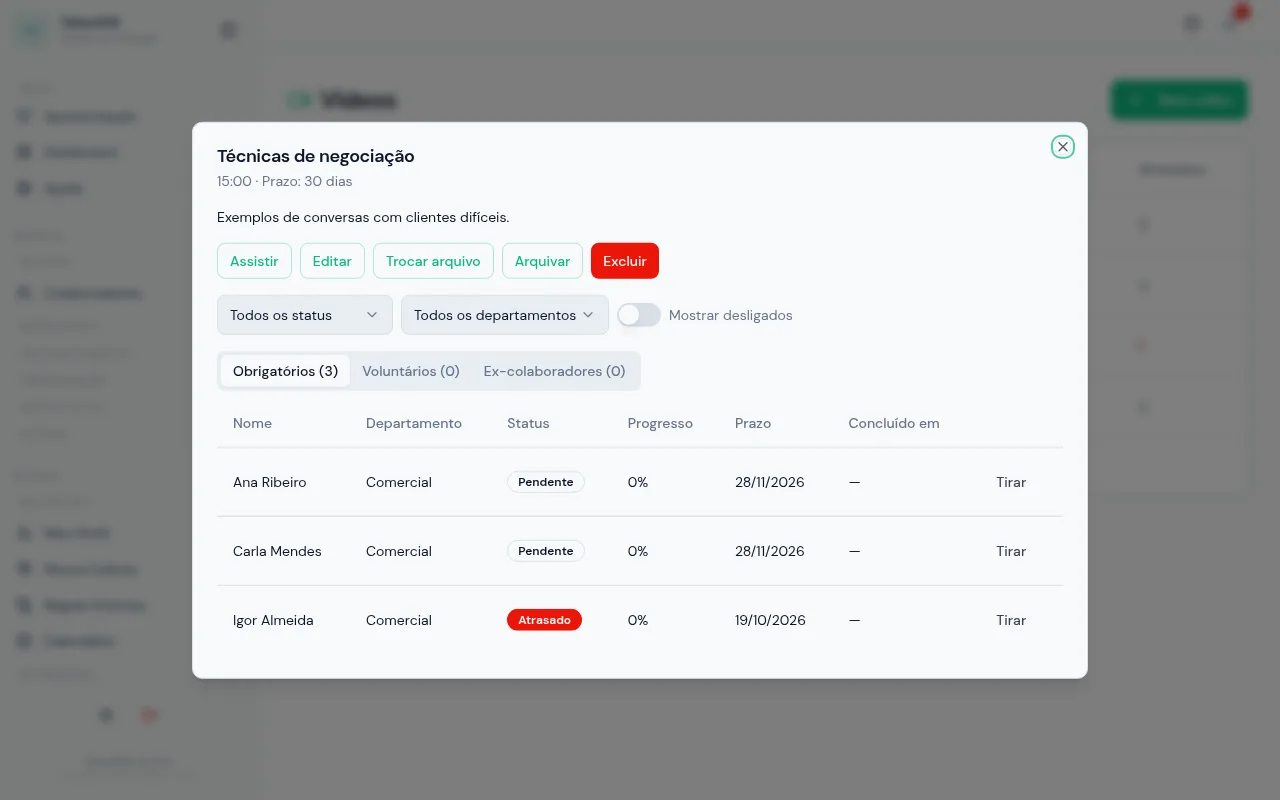
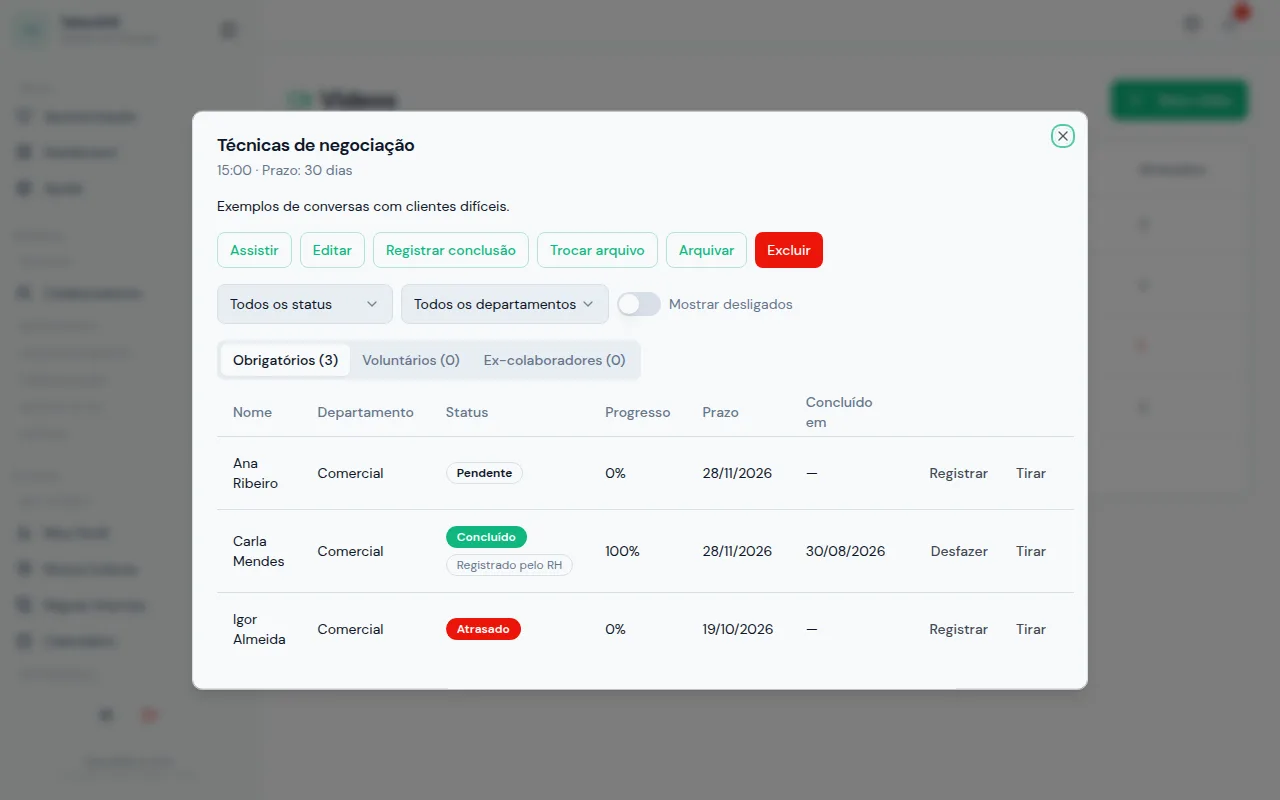
feat(videos): tela para registrar conclusão pelo RH, versão 1.15.0

diff --git a/frontend/src/components/videos/VideoDetailDialog.tsx b/frontend/src/components/videos/VideoDetailDialog.tsx
@@ -7,6 +7,7 @@ import { uploadVideoFile } from "@/lib/videoUpload";
 import { formatDueDays, formatDuration } from "@/lib/videoFormat";
 import { VideoFormDialog } from "./VideoFormDialog";
 import { VideoStatusBadge } from "./VideoStatusBadge";
+import { RegisterCompletionDialog } from "./RegisterCompletionDialog";
 import {
   AlertDialog, AlertDialogAction, AlertDialogCancel, AlertDialogContent,
   AlertDialogDescription, AlertDialogFooter, AlertDialogHeader, AlertDialogTitle,
@@ -37,6 +38,12 @@ function formatDateTime(iso: string | null) {
   return iso ? new Date(iso).toLocaleString("pt-BR") : "—";
 }
 
+// Conclusão registrada pelo RH só tem o dia: a hora seria inventada.
+function formatCompletedAt(r: ViewerRow) {
+  if (!r.completed_at) return "—";
+  return r.registered_by_hr ? new Date(r.completed_at).toLocaleDateString("pt-BR") : formatDateTime(r.completed_at);
+}
+
 export function VideoDetailDialog({ videoId, onClose }: Props) {
   const qc = useQueryClient();
   const { toast } = useToast();
@@ -49,6 +56,9 @@ export function VideoDetailDialog({ videoId, onClose }: Props) {
   const [pendingFile, setPendingFile] = useState<File | null>(null);
   const [uploadProgress, setUploadProgress] = useState<number | null>(null);
   const [removeTarget, setRemoveTarget] = useState<ViewerRow | null>(null);
+  const [registerOpen, setRegisterOpen] = useState(false);
+  const [registerUserId, setRegisterUserId] = useState<string | null>(null);
+  const [undoTarget, setUndoTarget] = useState<ViewerRow | null>(null);
   const [deleteOpen, setDeleteOpen] = useState(false);
 
   const [showInactive, setShowInactive] = useState(false);
@@ -93,6 +103,21 @@ export function VideoDetailDialog({ videoId, onClose }: Props) {
     },
     onError,
   });
+
+  const undoMut = useMutation({
+    mutationFn: (userId: string) => videos.undoCompletion(videoId!, userId),
+    onSuccess: () => {
+      refresh();
+      toast({ title: "Registro desfeito" });
+      setUndoTarget(null);
+    },
+    onError,
+  });
+
+  const openRegister = (userId: string | null) => {
+    setRegisterUserId(userId);
+    setRegisterOpen(true);
+  };
 
   const replaceMut = useMutation({
     mutationFn: async ({ file, mode }: { file: File; mode: "keep_completed" | "reset_all" }) => {
@@ -166,7 +191,7 @@ export function VideoDetailDialog({ videoId, onClose }: Props) {
               <TableHead>Progresso</TableHead>
               <TableHead>Prazo</TableHead>
               <TableHead>Concluído em</TableHead>
-              {canRemove && <TableHead />}
+              <TableHead />
             </TableRow>
           </TableHeader>
           <TableBody>
@@ -179,19 +204,36 @@ export function VideoDetailDialog({ videoId, onClose }: Props) {
                   </span>
                 </TableCell>
                 <TableCell>{r.department ?? "—"}</TableCell>
-                <TableCell><VideoStatusBadge status={r.status} /></TableCell>
+                <TableCell>
+                  <span className="flex flex-wrap items-center gap-1.5">
+                    <VideoStatusBadge status={r.status} />
+                    {r.registered_by_hr && (
+                      <Badge variant="outline" className="whitespace-nowrap font-normal text-muted-foreground">Registrado pelo RH</Badge>
+                    )}
+                  </span>
+                </TableCell>
                 <TableCell>{Math.round(r.progress_pct)}%</TableCell>
                 <TableCell>{r.due_at ? new Date(r.due_at).toLocaleDateString("pt-BR") : "—"}</TableCell>
-                <TableCell>{formatDateTime(r.completed_at)}</TableCell>
-                {canRemove && (
-                  <TableCell>
-                    {r.user_id && (
+                <TableCell>{formatCompletedAt(r)}</TableCell>
+                <TableCell>
+                  <span className="flex justify-end gap-1">
+                    {r.user_id && !r.completed_at && !r.deactivated_at && (
+                      <Button variant="ghost" size="sm" onClick={() => openRegister(r.user_id)}>
+                        Registrar
+                      </Button>
+                    )}
+                    {r.user_id && r.registered_by_hr && (
+                      <Button variant="ghost" size="sm" onClick={() => setUndoTarget(r)}>
+                        Desfazer
+                      </Button>
+                    )}
+                    {canRemove && r.user_id && (
                       <Button variant="ghost" size="sm" onClick={() => setRemoveTarget(r)}>
                         Tirar
                       </Button>
                     )}
-                  </TableCell>
-                )}
+                  </span>
+                </TableCell>
               </TableRow>
             ))}
           </TableBody>
@@ -226,6 +268,9 @@ export function VideoDetailDialog({ videoId, onClose }: Props) {
                 </Button>
                 <Button variant="outline" size="sm" onClick={() => setEditOpen(true)}>
                   Editar
+                </Button>
+                <Button variant="outline" size="sm" onClick={() => openRegister(null)}>
+                  Registrar conclusão
                 </Button>
                 <Button
                   variant="outline"
@@ -337,6 +382,39 @@ export function VideoDetailDialog({ videoId, onClose }: Props) {
             </AlertDialogAction>
             <AlertDialogAction onClick={() => startReplace("reset_all")}>
               Todos precisam assistir de novo
+            </AlertDialogAction>
+          </AlertDialogFooter>
+        </AlertDialogContent>
+      </AlertDialog>
+
+      {videoId && (
+        <RegisterCompletionDialog
+          videoId={videoId}
+          open={registerOpen}
+          initialUserId={registerUserId}
+          completedUserIds={allRows.filter((r) => r.completed_at && r.user_id).map((r) => r.user_id as string)}
+          onOpenChange={setRegisterOpen}
+        />
+      )}
+
+      <AlertDialog open={!!undoTarget} onOpenChange={(o) => !o && setUndoTarget(null)}>
+        <AlertDialogContent>
+          <AlertDialogHeader>
+            <AlertDialogTitle>Desfazer o registro de {undoTarget?.name ?? "pessoa"}?</AlertDialogTitle>
+            <AlertDialogDescription>
+              A conclusão registrada pelo RH é apagada. Se o vídeo é obrigatório para a pessoa, ele volta a ficar
+              pendente para ela.
+            </AlertDialogDescription>
+          </AlertDialogHeader>
+          <AlertDialogFooter>
+            <AlertDialogCancel>Cancelar</AlertDialogCancel>
+            <AlertDialogAction
+              onClick={(e) => {
+                e.preventDefault();
+                if (undoTarget?.user_id) undoMut.mutate(undoTarget.user_id);
+              }}
+            >
+              Desfazer
             </AlertDialogAction>
           </AlertDialogFooter>
         </AlertDialogContent>

diff --git a/frontend/src/components/videos/RegisterCompletionDialog.tsx b/frontend/src/components/videos/RegisterCompletionDialog.tsx
@@ -1,0 +1,110 @@
+import { useEffect, useState } from "react";
+import { useMutation, useQuery, useQueryClient } from "@tanstack/react-query";
+import { collaborators, videos } from "@/lib/api";
+import { Combobox } from "@/components/Combobox";
+import { Button } from "@/components/ui/button";
+import {
+  Dialog, DialogContent, DialogDescription, DialogFooter, DialogHeader, DialogTitle,
+} from "@/components/ui/dialog";
+import { Input } from "@/components/ui/input";
+import { Label } from "@/components/ui/label";
+import { useToast } from "@/hooks/use-toast";
+
+type Props = {
+  videoId: string;
+  open: boolean;
+  // Pessoa já escolhida quando o RH vem pelo atalho de uma linha pendente.
+  initialUserId?: string | null;
+  // Quem já concluiu não pode ser registrado de novo.
+  completedUserIds: string[];
+  onOpenChange: (open: boolean) => void;
+};
+
+function todayISO(): string {
+  const d = new Date();
+  return `${d.getFullYear()}-${String(d.getMonth() + 1).padStart(2, "0")}-${String(d.getDate()).padStart(2, "0")}`;
+}
+
+export function RegisterCompletionDialog({ videoId, open, initialUserId, completedUserIds, onOpenChange }: Props) {
+  const qc = useQueryClient();
+  const { toast } = useToast();
+  const [userId, setUserId] = useState<string | undefined>();
+  const [date, setDate] = useState(todayISO());
+
+  useEffect(() => {
+    if (open) {
+      setUserId(initialUserId ?? undefined);
+      setDate(todayISO());
+    }
+  }, [open, initialUserId]);
+
+  const { data: people = [] } = useQuery({
+    queryKey: ["collaborators", "active"],
+    queryFn: () => collaborators.list(undefined, "active"),
+    enabled: open,
+  });
+  const options = (people as Record<string, unknown>[])
+    .filter((p) => !completedUserIds.includes(p.user_id as string))
+    .map((p) => ({ value: p.user_id as string, label: p.name as string }))
+    .sort((a, b) => a.label.localeCompare(b.label));
+
+  const today = todayISO();
+  const mutation = useMutation({
+    mutationFn: () => videos.registerCompletion(videoId, userId!, date),
+    onSuccess: () => {
+      qc.invalidateQueries({ queryKey: ["admin-videos"] });
+      qc.invalidateQueries({ queryKey: ["admin-video", videoId] });
+      toast({ title: "Conclusão registrada" });
+      onOpenChange(false);
+    },
+    onError: (e: Error) => toast({ title: "Erro ao registrar", description: e.message, variant: "destructive" }),
+  });
+
+  return (
+    <Dialog open={open} onOpenChange={onOpenChange}>
+      <DialogContent>
+        <DialogHeader>
+          <DialogTitle>Registrar conclusão</DialogTitle>
+          <DialogDescription>
+            Para quem já assistiu a este vídeo antes do sistema. A pessoa fica como concluída na data
+            informada, com a marca Registrado pelo RH.
+          </DialogDescription>
+        </DialogHeader>
+        <div className="space-y-4">
+          <div className="space-y-2">
+            <Label>Colaborador</Label>
+            <Combobox
+              options={options}
+              value={userId}
+              onChange={setUserId}
+              placeholder="Selecione um colaborador"
+              searchPlaceholder="Buscar pessoa..."
+              emptyText="Todos já concluíram."
+            />
+          </div>
+          <div className="space-y-2">
+            <Label htmlFor="completion-date">Data da conclusão</Label>
+            <Input
+              id="completion-date"
+              type="date"
+              value={date}
+              max={today}
+              onChange={(e) => setDate(e.target.value)}
+            />
+          </div>
+        </div>
+        <DialogFooter>
+          <Button variant="outline" onClick={() => onOpenChange(false)} disabled={mutation.isPending}>
+            Cancelar
+          </Button>
+          <Button
+            onClick={() => mutation.mutate()}
+            disabled={!userId || !date || date > today || mutation.isPending}
+          >
+            {mutation.isPending ? "Registrando..." : "Registrar conclusão"}
+          </Button>
+        </DialogFooter>
+      </DialogContent>
+    </Dialog>
+  );
+}

diff --git a/frontend/src/lib/api.ts b/frontend/src/lib/api.ts
@@ -833,6 +833,7 @@ export type ViewerRow = {
   completed_at: string | null;
   assigned_at: string;
   due_at: string | null;
+  registered_by_hr?: boolean;
 };
 
 export type VideoCore = {
@@ -938,6 +939,13 @@ export const videos = {
   update: (id: string, data: UpdateVideoInput) => patch<VideoCore>(`/videos/${encodeURIComponent(id)}`, data),
   removeViewer: (id: string, userId: string) =>
     post<{ ok: boolean }>(`/videos/${encodeURIComponent(id)}/viewers/${encodeURIComponent(userId)}/remove`),
+  registerCompletion: (id: string, userId: string, completedOn: string) =>
+    post<{ ok: boolean }>(
+      `/videos/${encodeURIComponent(id)}/viewers/${encodeURIComponent(userId)}/complete`,
+      { completed_on: completedOn },
+    ),
+  undoCompletion: (id: string, userId: string) =>
+    post<{ ok: boolean }>(`/videos/${encodeURIComponent(id)}/viewers/${encodeURIComponent(userId)}/uncomplete`),
   replaceFile: (id: string, upload_id: string, mode: "keep_completed" | "reset_all") =>
     post<VideoCore>(`/videos/${encodeURIComponent(id)}/replace-file`, { upload_id, mode }),
   archive: (id: string) => post<VideoCore>(`/videos/${encodeURIComponent(id)}/archive`),

diff --git a/frontend/src/components/ChangelogModal.tsx b/frontend/src/components/ChangelogModal.tsx
@@ -16,9 +16,23 @@ interface ChangelogVersion {
 
 const CHANGELOG: ChangelogVersion[] = [
   {
-    version: "v1.14.0",
+    version: "v1.15.0",
     date: "29/10/2026",
     current: true,
+    entries: [
+      {
+        type: "novidade",
+        text: "Em Vídeos, o RH pode registrar quem já assistiu a um vídeo antes do sistema, informando a data. A pessoa aparece como concluída, com a marca Registrado pelo RH, e não precisa assistir de novo.",
+      },
+      {
+        type: "melhoria",
+        text: "Um registro feito por engano pode ser desfeito no próprio detalhe do vídeo.",
+      },
+    ],
+  },
+  {
+    version: "v1.14.0",
+    date: "29/10/2026",
     entries: [
       {
         type: "novidade",

diff --git a/frontend/src/components/AdminSidebar.tsx b/frontend/src/components/AdminSidebar.tsx
@@ -294,7 +294,7 @@ export function AdminSidebar() {
             onClick={() => setChangelogOpen(true)}
             className="w-full rounded-md px-2 py-1.5 text-center transition-colors hover:bg-sidebar-accent"
           >
-            <p className="text-xs font-semibold text-muted-foreground/60 leading-tight hover:text-muted-foreground transition-colors">TalentHS v1.14.0</p>
+            <p className="text-xs font-semibold text-muted-foreground/60 leading-tight hover:text-muted-foreground transition-colors">TalentHS v1.15.0</p>
             <p className="text-[10px] text-muted-foreground/35 leading-tight">© 2026 Health & Safety Tech</p>
           </button>
         </div>

diff --git a/backend/scripts/seed_captures.py b/backend/scripts/seed_captures.py
@@ -663,6 +663,13 @@ class Seeder:
                WHERE video_id = $1 AND user_id = ANY($2::uuid[])""",
             self.video_ids[2], [self.users[k] for k in ("igor",)],
         )
+        # A Carla já tinha visto antes do sistema: conclusão registrada pela gestora.
+        await self.conn.execute(
+            """UPDATE public.internal_video_viewers
+               SET completed_at = $3, completed_by = $4, completed_registered_at = now()
+               WHERE video_id = $1 AND user_id = $2""",
+            self.video_ids[2], self.users["carla"], self.at(self.days(-60), 12), self.users["gestor"],
+        )
 
     async def bingo(self) -> None:
         rng = random.Random(42)

diff --git a/frontend/src/help/guides/administracao/videos.md b/frontend/src/help/guides/administracao/videos.md
@@ -51,7 +51,7 @@ No detalhe de um vídeo, quem foi desligado não aparece nas listas, e os númer
 
 Use os filtros de status e de departamento para encontrar quem falta.
 
-![Detalhe do vídeo Técnicas de negociação com duas pessoas pendentes e uma atrasada na aba Obrigatórios](/capturas/admin-video-detalhe.webp)
+![Detalhe do vídeo Técnicas de negociação com uma pessoa pendente, uma concluída com a marca Registrado pelo RH e uma atrasada na aba Obrigatórios](/capturas/admin-video-detalhe.webp)
 
 No detalhe, use também os botões:
 
@@ -62,12 +62,24 @@ No detalhe, use também os botões:
 - **Excluir**: apaga o arquivo e todo o histórico de quem assistiu, depois de confirmar;
 - **Tirar**, na linha de uma pessoa: tira a pessoa da lista de obrigatórios. O progresso dela é mantido.
 
+**Para registrar quem já assistiu antes do sistema:**
+
+1. No detalhe do vídeo, clique em **Registrar conclusão**. Na linha de alguém **Pendente** ou **Atrasado**, você também pode clicar em **Registrar**, que já traz a pessoa escolhida.
+2. Em **Colaborador**, escolha a pessoa. Só aparece quem ainda não concluiu o vídeo.
+3. Em **Data da conclusão**, informe o dia em que ela assistiu. Pode ser hoje ou uma data passada.
+4. Clique em **Registrar conclusão**.
+
+A pessoa passa a aparecer como **Concluído**, com a marca **Registrado pelo RH** e a data informada em **Concluído em**. Quem não é obrigado a assistir aparece em **Voluntários**.
+
+**Para desfazer um registro feito por engano:** na linha da pessoa marcada como **Registrado pelo RH**, clique em **Desfazer** e confirme. Se o vídeo é obrigatório para ela, ele volta a ficar pendente.
+
 ## O que acontece depois
 
 - Cada pessoa que passa a ser obrigada a assistir recebe a notificação **Novo vídeo para assistir** e vê o vídeo em **Obrigatórios**, na tela [Vídeos](/ajuda/comunicacao/videos).
 - O prazo de cada pessoa conta a partir do dia em que o vídeo passou a ser obrigatório para ela. Passado o prazo sem concluir, ela aparece como **Atrasado**.
 - Quem entra na empresa ou muda para um departamento escolhido também recebe o vídeo, enquanto ele não estiver arquivado.
 - Ao trocar o arquivo, quem precisa assistir de novo recebe a notificação **Vídeo atualizado: assista novamente**.
+- A conclusão registrada pelo RH conta igual a quem assistiu pelo sistema: entra em **Concluídos**, tira o vídeo das pendências da pessoa e ela não fica atrasada. Ela não recebe notificação. Com **Todos precisam assistir de novo** em **Trocar arquivo**, os registros do RH também são zerados.
 
 ## Dúvidas comuns
 
@@ -82,5 +94,7 @@ No detalhe, use também os botões:
 **A ordem obriga a assistir em sequência?** Não. O número só indica a ordem sugerida; a pessoa pode assistir na ordem que quiser.
 
 **Vídeo novo ou reativado vai para onde?** Para o fim da lista. Use as setas para mudar a posição. Vídeo arquivado não tem número.
+
+**Não consigo desfazer a conclusão de uma pessoa.** Só dá para desfazer as conclusões com a marca **Registrado pelo RH**. Quem assistiu pelo sistema não pode ser desmarcado.
 
 **Qual a diferença entre Arquivar e Excluir?** **Arquivar** esconde o vídeo e guarda o histórico; dá para reativar. **Excluir** apaga o arquivo e o histórico de vez.

diff --git a/CLAUDE.md b/CLAUDE.md
@@ -246,7 +246,7 @@ O tour de boas-vindas e a página `/ajuda` ficam em `frontend/src/help/`.
 - **Tour por tela** fica em `src/help/tours/screenTours.ts` e é ligado ao guia da tela pelo campo `tour:` do guia (é ele que faz aparecer **Mostrar nesta tela** no "?"). A tela do tour muda no mesmo commit que ele.
 - **Passo novo em tour já publicado** leva `since: <nova versão>` e o tour sobe `version`; quem já concluiu vê o passo pelo **O que mudou** (ponto no "?"). Remover passo, ou subir `version` sem nenhum passo com `since`, não aparece para quem concluiu.
 - **Bug conhecido que leva o leitor a errar ganha um "Atenção:" curto no guia** — onde seguir o guia perde dado, gasta tentativa ou leva a uma decisão errada de RH, o guia avisa em uma frase, em linguagem simples, ligada ao comportamento. O aviso sai **no mesmo commit que corrige o bug**. **Nunca vale para bug de segurança ou de permissão** — o texto dos guias vai num chunk estático público, então descrever a falha a divulga. Quem corrige um bug roda `grep -rn "Atenção:" frontend/src/help/guides` e remove o aviso correspondente **no mesmo commit**.
-- **Deploy:** migrações pendentes primeiro (`backend/scripts/aplicar_0NN.py`, rodadas pelo Erick; a 030 é do tour, a 031 da ordem dos vídeos e a 032 do desligamento de colaboradores) → backend → frontend.
+- **Deploy:** migrações pendentes primeiro (`backend/scripts/aplicar_0NN.py`, rodadas pelo Erick; a 030 é do tour, a 031 da ordem dos vídeos, a 032 do desligamento de colaboradores e a 033 da conclusão de vídeo registrada pelo RH) → backend → frontend.
 - **Contratos em `src/help/**/*.test.ts`** — rotas, âncoras e textos dos tours são verificados por testes; rode `bun run test` antes de commitar.
 - **Capturas dos guias** ficam em `frontend/public/capturas/<nome>.webp` (**nunca** em `public/ajuda/` — o nginx redirecionaria `/ajuda` → `/ajuda/`) e são listadas em `frontend/scripts/captures.config.ts`. Só dado fictício, de um banco só delas. Para refazer:
   1. `bash backend/scripts/captures-db.sh` — recria o `talenths_capturas` no `pg-teste` (migrações + o DDL que só existe em produção: testes configuráveis e `profiles.job_title`);
